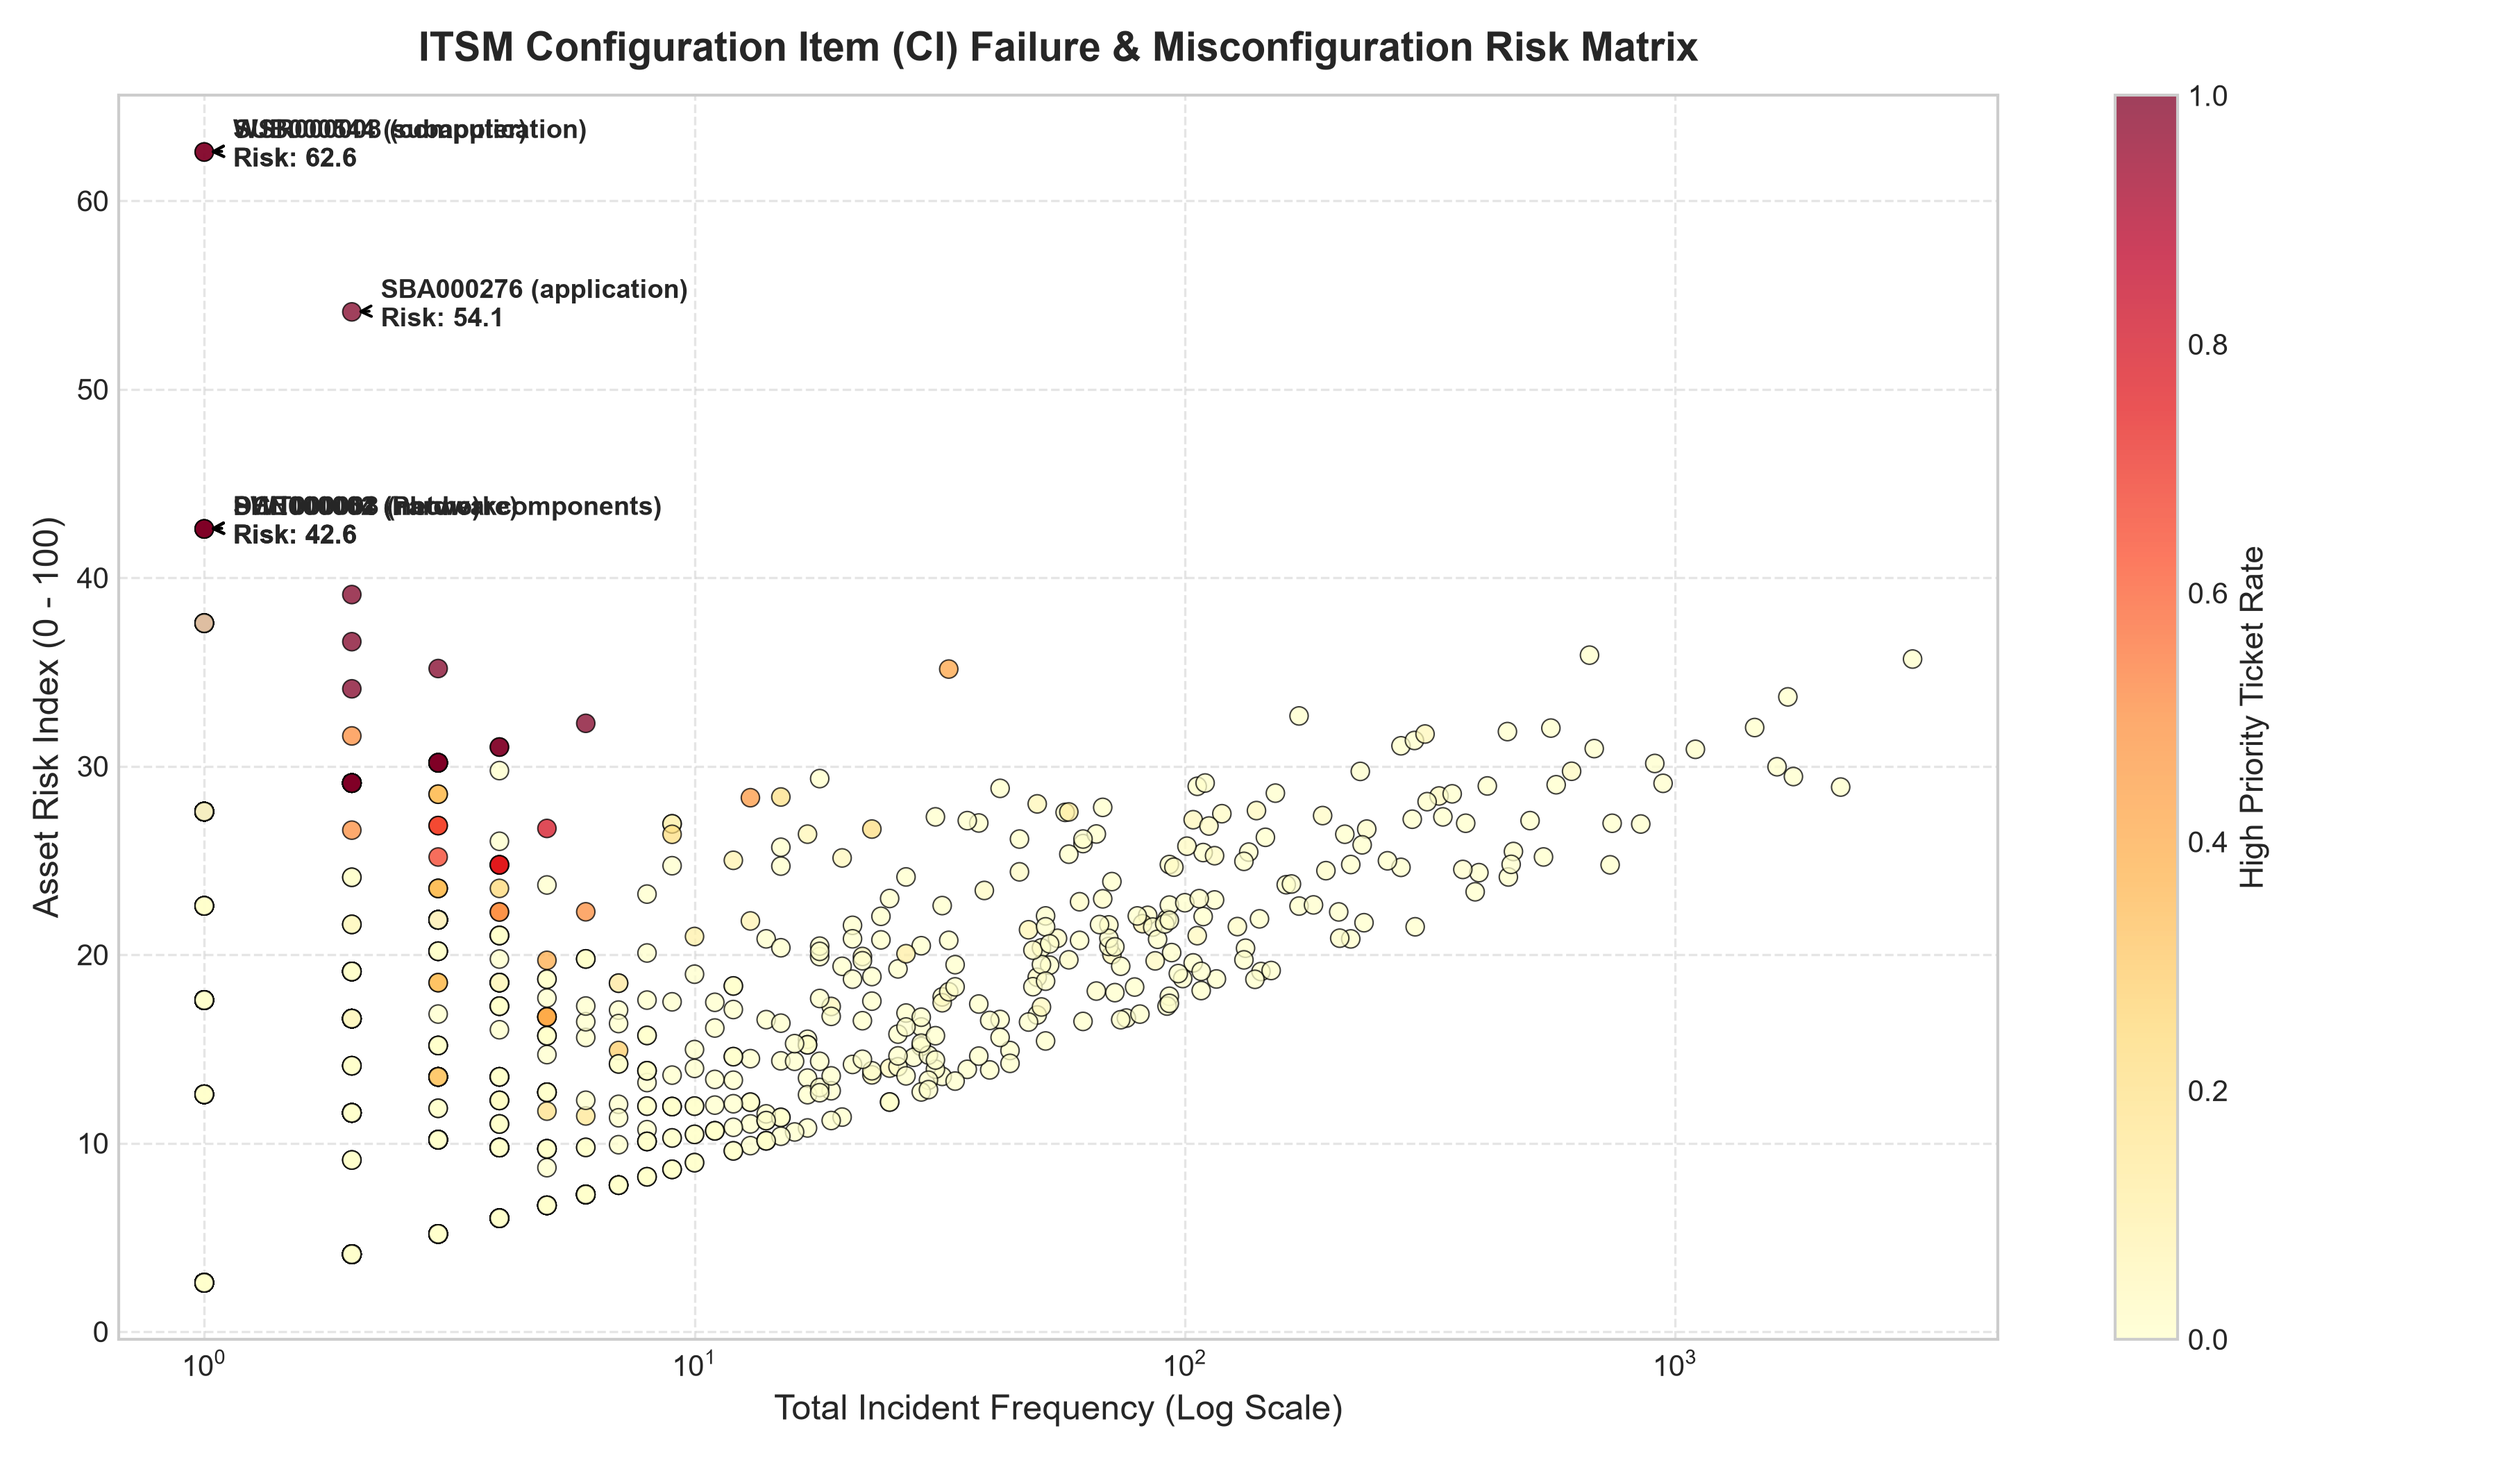
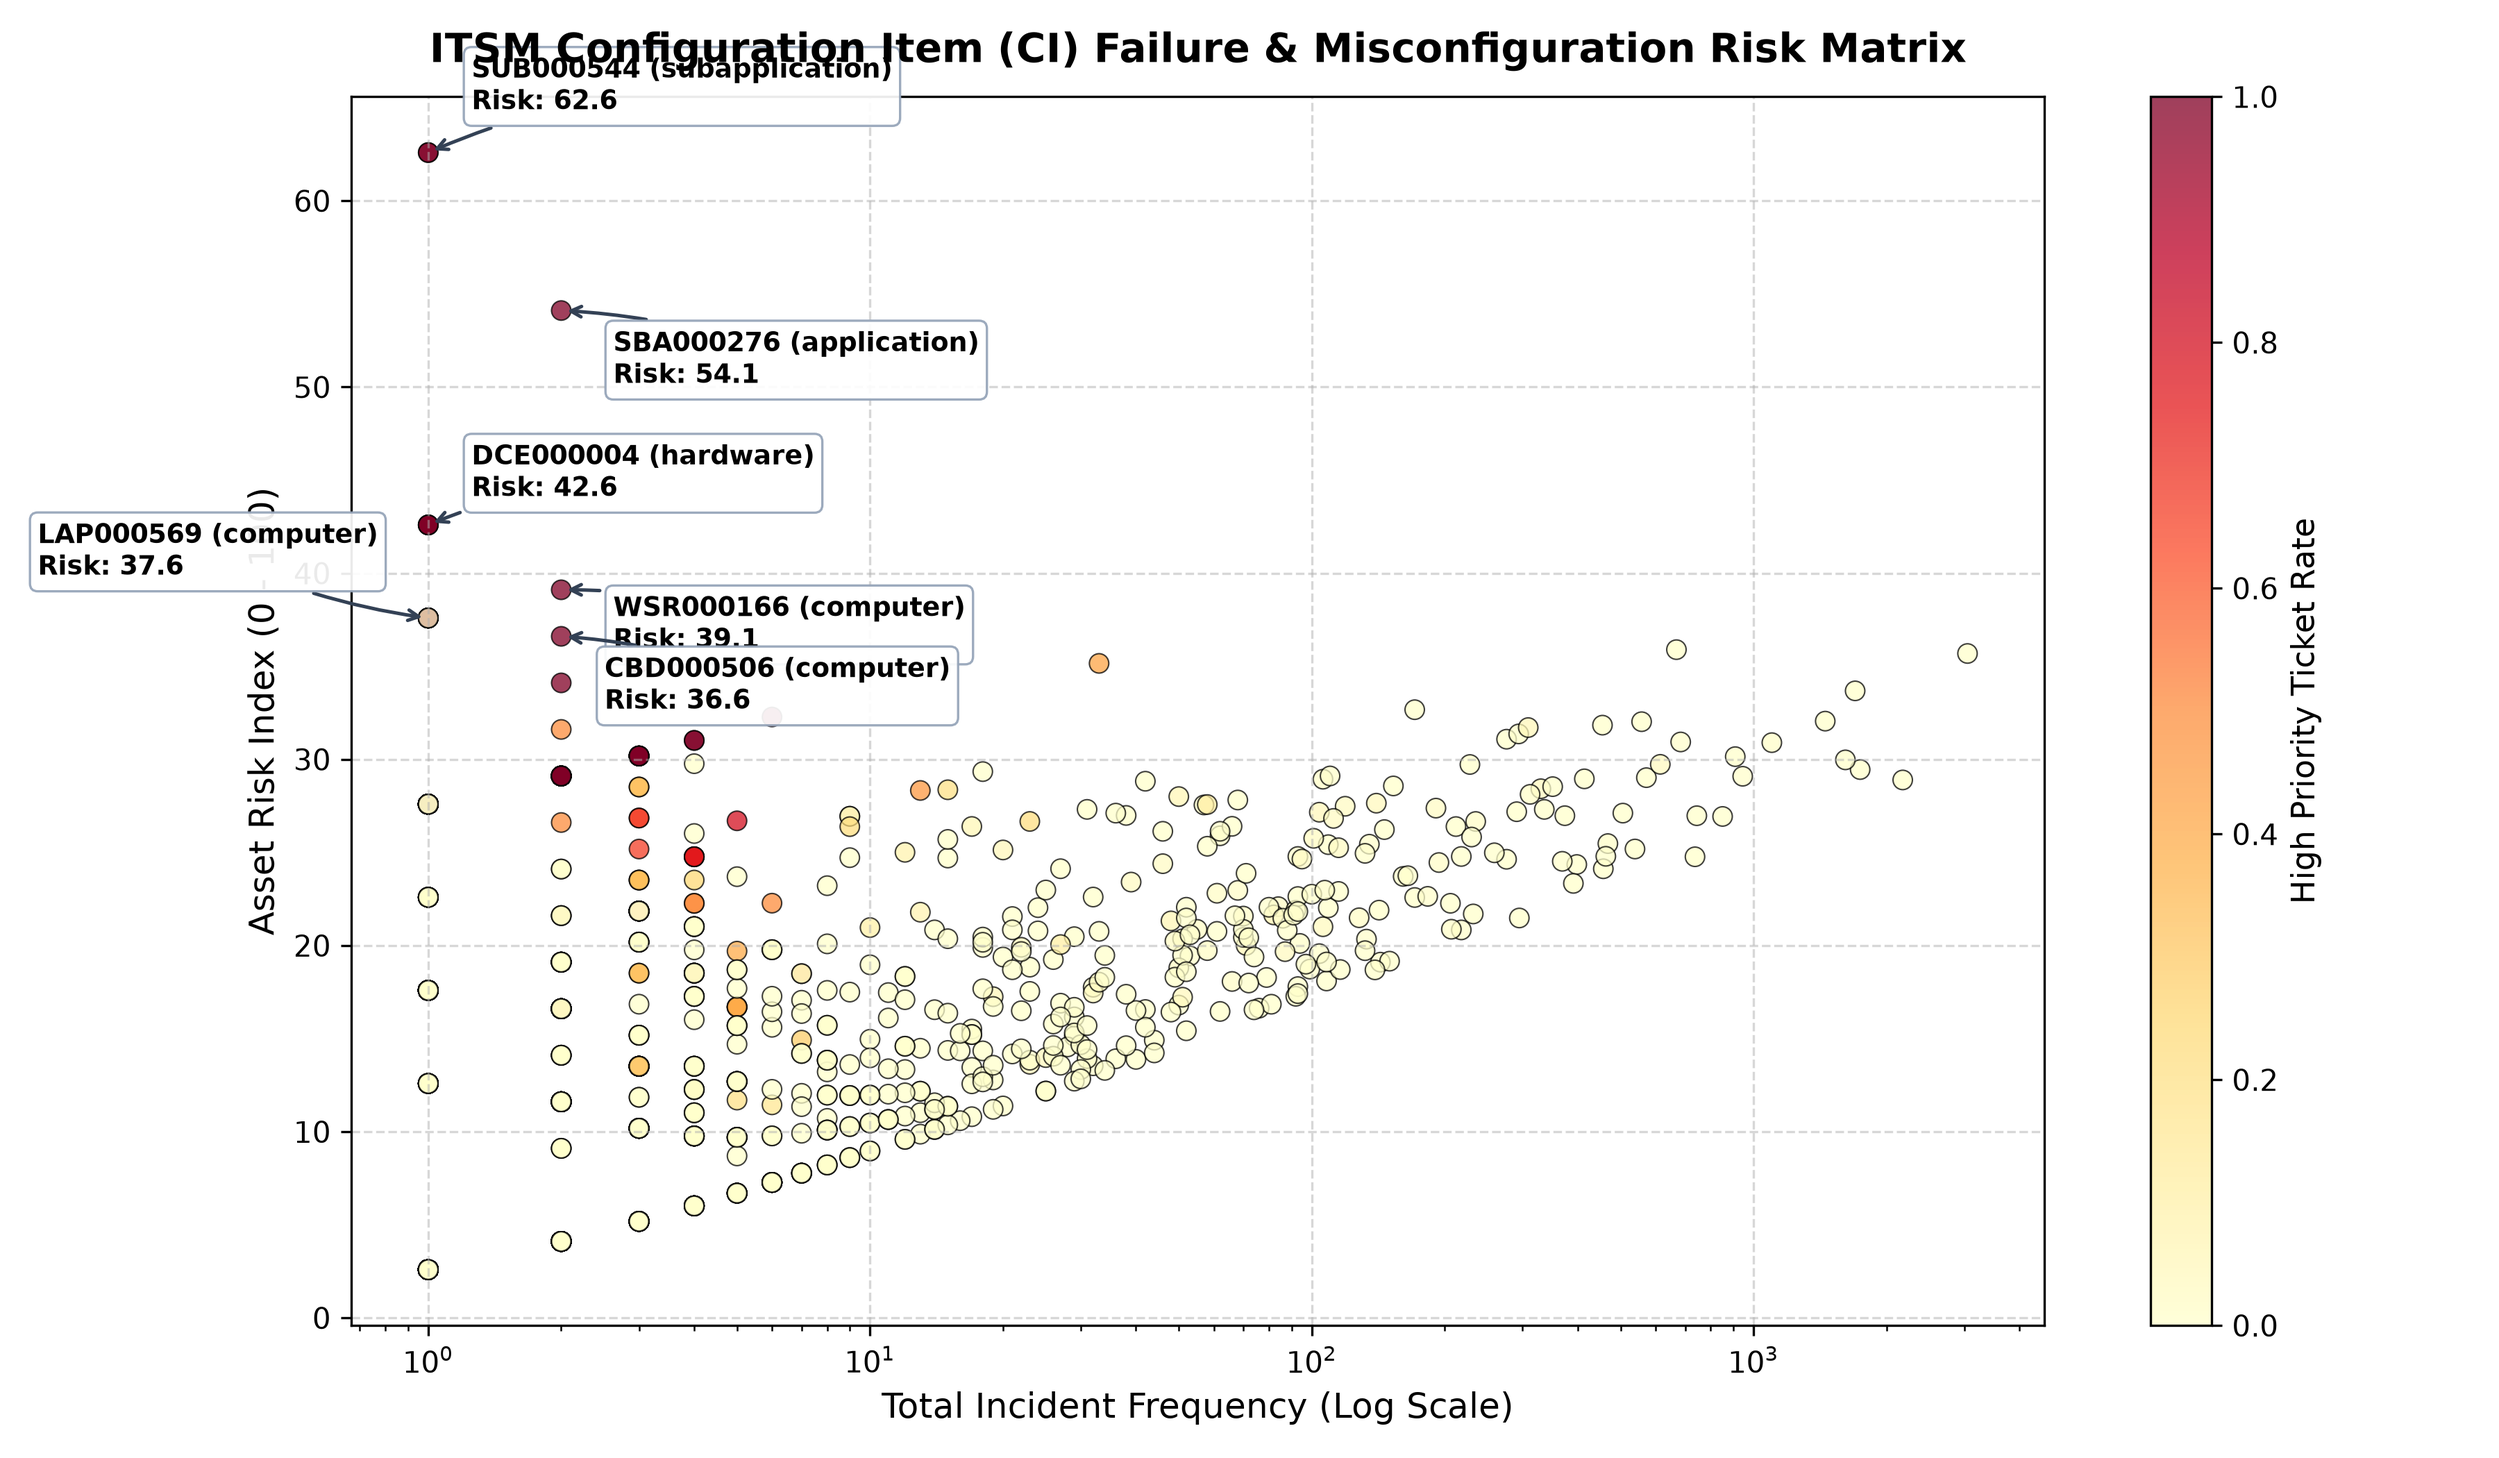
fix: resolve overlapping label annotations in Pillar 4 asset risk matrix

diff --git a/src/model_pillar4_rfc_assets.py b/src/model_pillar4_rfc_assets.py
@@ -160,15 +160,36 @@ def build_rfc_and_assets():
     cbar = plt.colorbar(scatter, ax=ax)
     cbar.set_label("High Priority Ticket Rate", fontsize=11)
     
-    # Annotate top 6 critical assets
-    top_assets = ci_registry.head(6)
-    for _, row in top_assets.iterrows():
+    # Annotate distinct top assets with staggered offsets to prevent overlapping labels
+    chosen_assets = []
+    seen_coords = set()
+    for _, row in ci_registry.iterrows():
+        coord = (row['Total_Incidents'], round(row['Asset_Risk_Index'], 0))
+        if coord not in seen_coords:
+            seen_coords.add(coord)
+            chosen_assets.append(row)
+        if len(chosen_assets) >= 6:
+            break
+            
+    top_assets = pd.DataFrame(chosen_assets)
+    offsets = [
+        (15, 15),     # Asset 1: upper right
+        (18, -25),    # Asset 2: lower right
+        (15, 10),     # Asset 3: right
+        (18, -20),    # Asset 4: lower right
+        (-135, 15),   # Asset 5: upper left
+        (15, -25)     # Asset 6: lower right
+    ]
+    
+    for i, (_, row) in enumerate(top_assets.iterrows()):
+        offset = offsets[i % len(offsets)]
         ax.annotate(
             f"{row['CI_Name']} ({row['CI_Cat']})\nRisk: {row['Asset_Risk_Index']:.1f}",
             (row['Total_Incidents'], row['Asset_Risk_Index']),
-            xytext=(10, -5), textcoords='offset points',
+            xytext=offset, textcoords='offset points',
             fontsize=9, fontweight='bold',
-            arrowprops=dict(arrowstyle="->", color='black', lw=1)
+            bbox=dict(boxstyle="round,pad=0.3", fc="white", ec="#94a3b8", alpha=0.92, lw=0.8),
+            arrowprops=dict(arrowstyle="->", color='#334155', lw=1.2, connectionstyle="arc3,rad=0.08")
         )
         
     ax.set_xscale('log')
